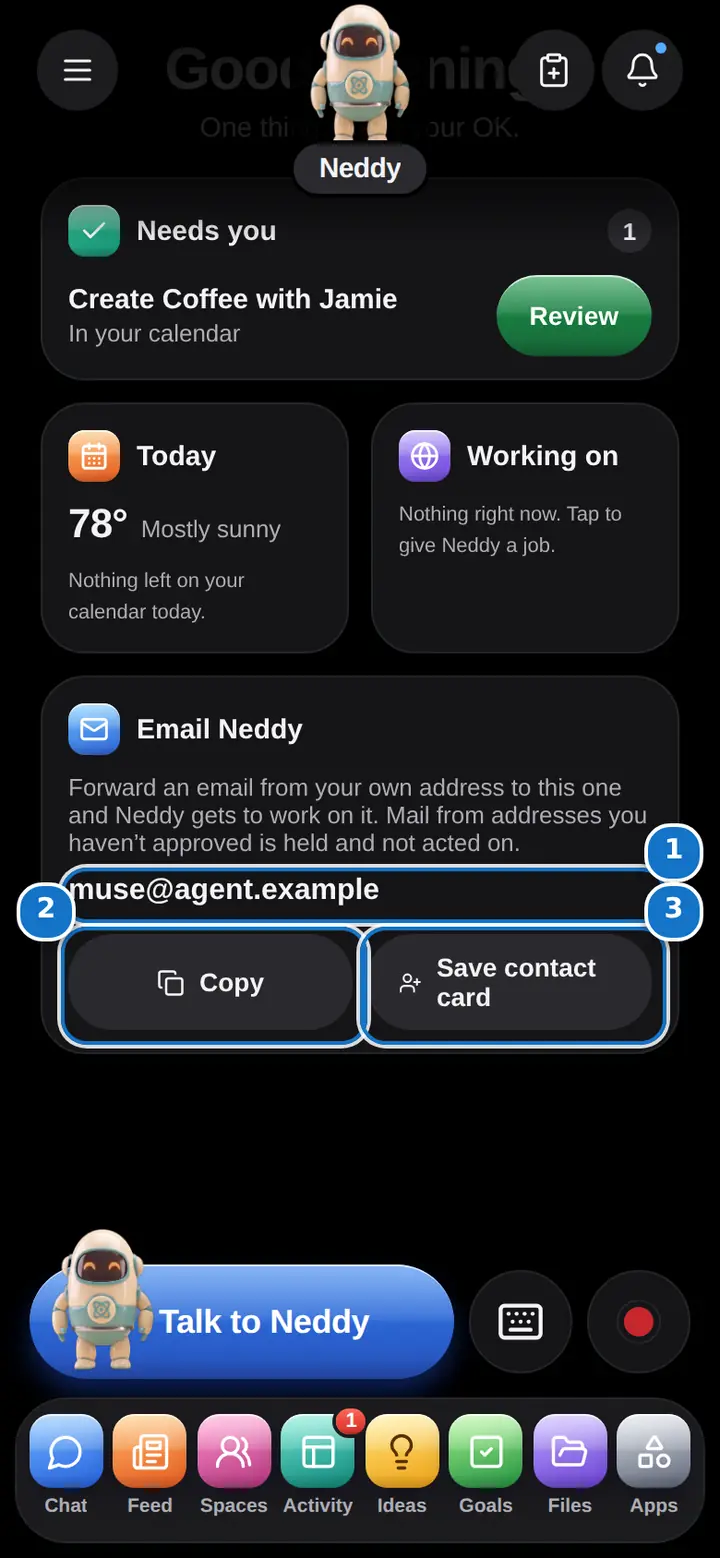
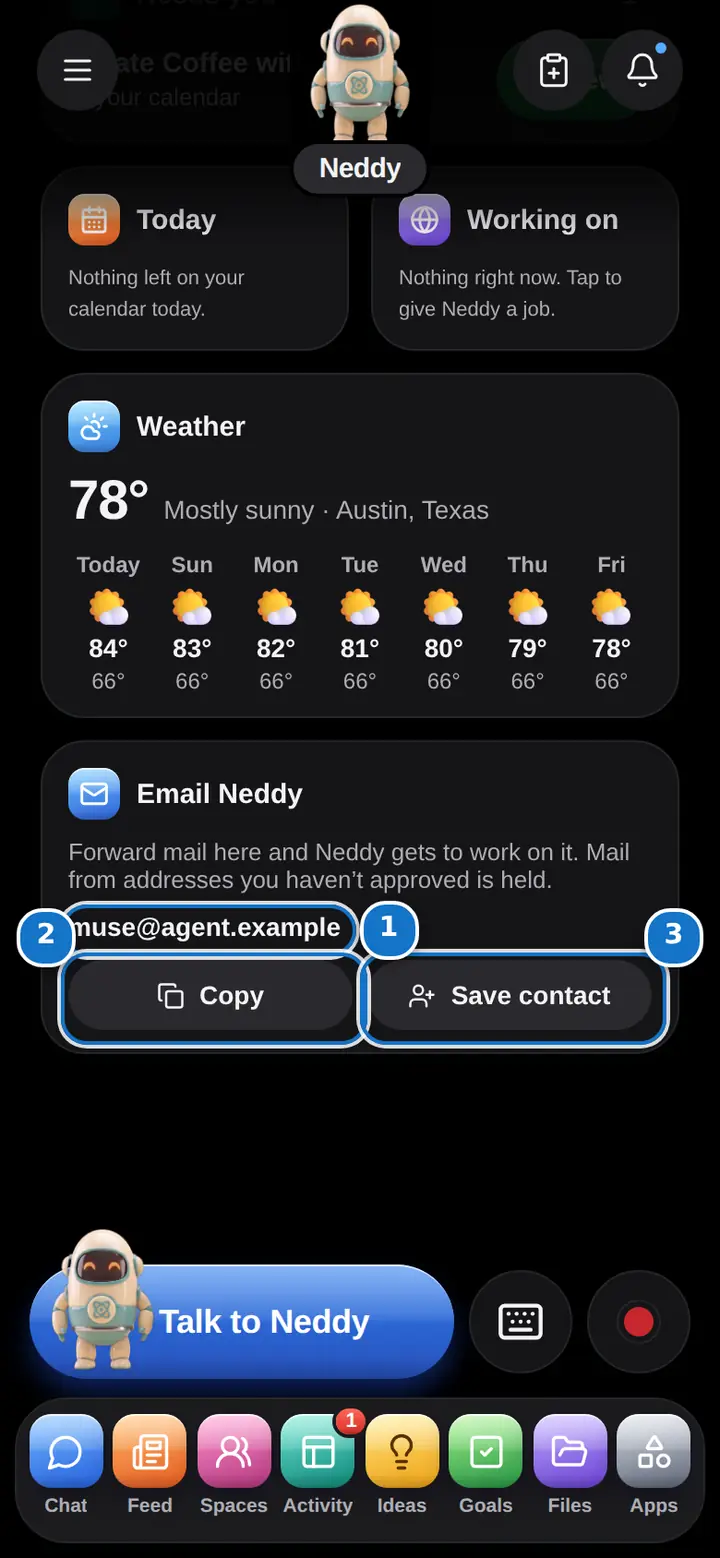
Home: larger Weather card with seven days, smaller Email card
The Weather card is now its own full-width card (now, then each of the next
seven days with high and low); Today shows only the calendar. The Email card is
shorter with small buttons. The forecast is remembered between visits and its
room is held while it loads, so nothing below moves. Help topics and pictures
updated.

Claude-Session: https://claude.ai/code/session_01MfTjvNDS5CdhPPisYxjwAv

diff --git a/apps/mobile/src/home.tsx b/apps/mobile/src/home.tsx
@@ -1,6 +1,7 @@
 import {
   CalendarDays,
   Check,
+  CloudSun,
   Copy,
   Globe,
   Headset,
@@ -13,11 +14,13 @@ import {
 import { type ReactNode, useEffect, useState } from "react";
 import { Image, Platform, Pressable, Text, useWindowDimensions, View } from "react-native";
 import type { ActionProposal } from "../../../packages/domain/src";
+import type { Weather } from "../../../packages/domain/src/weather";
 import { taskActivity } from "./activity";
 import { contactCard, contactFileName } from "./agent-contact";
 import { useAgentWorkspace } from "./agent-workspace";
 import { type AppDay, todaysEvents } from "./calendar-apps";
 import { appLabel } from "./details";
+import { Emoji } from "./emoji";
 import { GlossFill, OnGloss } from "./gloss";
 import { useCallControls } from "./live-call";
 import { useLiveVoice } from "./live-talk-ui";
@@ -25,7 +28,7 @@ import { HomeRecordButton, useRecording } from "./meetings-ui";
 import { dark, glass } from "./theme";
 import { tipProps } from "./tips";
 import { Button, colors, glassSurface, s } from "./ui";
-import { useWeather } from "./weather-ui";
+import { dayName, lastShown, todayIn, useWeather } from "./weather-ui";
 import { isInstalled } from "./web-app";
 import { useWorkspace } from "./workspace";
 
@@ -141,7 +144,6 @@ export function HomeScreen({ desktop }: { desktop: boolean }) {
           ? `Nothing needs you right now. ${agent} is on ${busy.length === 1 ? "a job" : `${count(busy.length).toLowerCase()} jobs`}.`
           : "Nothing needs you right now.";
   const events = todaysEvents([...w.events, ...(appDay?.events ?? [])], now);
-  const forecast = weather && "weather" in weather ? weather.weather.now : undefined;
   const calendarConnected =
     !!appDay?.checked.length ||
     w.connections.some((c) => c.id === "google" && c.status !== "disconnected");
@@ -257,24 +259,13 @@ export function HomeScreen({ desktop }: { desktop: boolean }) {
               tint={["#ffbe6e", "#e8591a"]}
               onPress={() => navigate("feed")}
               // A button's name replaces what's in it, so it carries what the card says.
-              label={`Today: ${forecast ? `${forecast.temp}°, ${forecast.sky}. ` : ""}${shown
+              label={`Today: ${shown
                 .map((e) => `${spoken(e)} ${e.title}`)
                 .join(", ")}${shown.length ? ". " : ""}${more ? `And ${more} more. ` : ""}${
                 dayNote ? `${dayNote} ` : ""
               }Opens your day in Feed`}
               style={{ flex: 1 }}
             >
-              {forecast && (
-                <Text style={{ color: soft(), fontSize: 13 }}>
-                  <Text
-                    style={{ color: ink(), fontSize: 22, fontWeight: "700", letterSpacing: -0.4 }}
-                  >
-                    {forecast.temp}°
-                  </Text>
-                  {"  "}
-                  {forecast.sky}
-                </Text>
-              )}
               {shown.map((e) => (
                 <View key={`${e.id}-${e.start}`} style={{ flexDirection: "row", gap: 10 }}>
                   <Text
@@ -342,10 +333,76 @@ export function HomeScreen({ desktop }: { desktop: boolean }) {
               )}
             </HomeCard>
           </View>
+          {weather && "weather" in weather ? (
+            <WeatherCard weather={weather.weather} onPress={() => navigate("feed")} />
+          ) : (
+            // Holds the card's room while the forecast loads, so the cards below don't jump.
+            !weather && lastShown() && <WeatherRoom />
+          )}
           <AddressCard agent={agent} />
         </View>
       )}
     </View>
+  );
+}
+
+/** The Weather card's space, empty, while the forecast loads. */
+function WeatherRoom() {
+  return (
+    <View aria-hidden>
+      <HomeCard title="Weather" icon={CloudSun} tint={["#7fd4ff", "#2f7be0"]}>
+        <View style={{ height: 121 }} />
+      </HomeCard>
+    </View>
+  );
+}
+
+/** The week at a glance: now, then each day's high and low. Tap for the full forecast in Feed. */
+function WeatherCard({ weather, onPress }: { weather: Weather; onPress: () => void }) {
+  const today = todayIn(weather.timeZone);
+  const days = weather.days.slice(0, 7);
+  // Late in the evening today has no high left: its column shows the low and says "Tonight".
+  const name = (day: Weather["days"][number]) =>
+    day.date === today && day.high === undefined ? "Tonight" : dayName(day.date, today, "short");
+  const spoken = days
+    .map(
+      (day) =>
+        `${name(day)}: ${day.sky.toLowerCase()}${day.high !== undefined ? `, high ${day.high}` : ""}${day.low !== undefined ? `, low ${day.low}` : ""}`,
+    )
+    .join(". ");
+  return (
+    <HomeCard
+      title="Weather"
+      icon={CloudSun}
+      tint={["#7fd4ff", "#2f7be0"]}
+      onPress={onPress}
+      label={`Weather in ${weather.place}: ${weather.now.temp} degrees, ${weather.now.sky.toLowerCase()}. ${spoken}. Opens the forecast in Feed`}
+    >
+      <View style={{ flexDirection: "row", alignItems: "baseline", gap: 8, flexWrap: "wrap" }}>
+        <Text style={{ color: ink(), fontSize: 30, fontWeight: "700", letterSpacing: -0.6 }}>
+          {weather.now.temp}°
+        </Text>
+        <Text style={{ color: soft(), fontSize: 14, flexShrink: 1 }}>
+          {weather.now.sky} · {weather.place}
+        </Text>
+      </View>
+      <View style={{ flexDirection: "row", gap: 2 }}>
+        {days.map((day) => (
+          <View key={day.date} style={{ flex: 1, minWidth: 0, alignItems: "center", gap: 3 }}>
+            <Text style={{ color: soft(), fontSize: 12, fontWeight: "600" }} numberOfLines={1}>
+              {day.date === today && day.high === undefined ? "Night" : name(day)}
+            </Text>
+            <Emoji char={day.emoji} size={24} />
+            <Text style={{ color: ink(), fontSize: 14, fontWeight: "700" }}>
+              {day.high !== undefined ? `${day.high}°` : "–"}
+            </Text>
+            <Text style={{ color: soft(), fontSize: 12 }}>
+              {day.low !== undefined ? `${day.low}°` : " "}
+            </Text>
+          </View>
+        ))}
+      </View>
+    </HomeCard>
   );
 }
 
@@ -414,16 +471,15 @@ function AddressCard({ agent }: { agent: string }) {
           card never changes size. Mounted all the time so a change is read out. */}
       <Text role="status" aria-live="polite" style={{ color: soft(), fontSize: 13 }}>
         {note ||
-          `Forward an email from your own address to this one and ${agent} gets to work on it. Mail from addresses you haven’t approved is held and not acted on.`}
+          `Forward mail here and ${agent} gets to work on it. Mail from addresses you haven’t approved is held.`}
       </Text>
       <Text
         selectable
         style={
           {
             color: ink(),
-            fontSize: 16,
+            fontSize: 14,
             fontWeight: "700",
-            marginBottom: 4,
             wordBreak: "break-all",
           } as object
         }
@@ -433,20 +489,22 @@ function AddressCard({ agent }: { agent: string }) {
       {web && (
         <View style={{ flexDirection: "row", gap: 8, flexWrap: "wrap" }}>
           <Button
+            small
             icon={done === "copied" ? Check : Copy}
             onPress={() => void copy()}
-            style={{ flex: 1, minWidth: 120 }}
+            style={{ flex: 1, minWidth: 100 }}
           >
             Copy
           </Button>
           {/* An installed web app on an iPhone ignores downloads and would lose its page. */}
           {!isInstalled() && (
             <Button
+              small
               icon={done === "saved" ? Check : UserPlus}
               onPress={save}
-              style={{ flex: 1, minWidth: 120 }}
+              style={{ flex: 1, minWidth: 100 }}
             >
-              Save contact card
+              Save contact
             </Button>
           )}
         </View>

diff --git a/packages/domain/src/help.ts b/packages/domain/src/help.ts
@@ -156,11 +156,13 @@ export const HELP_TOPICS: HelpTopic[] = [
     place: "home",
     steps: [
       "**Needs you:** anything waiting for your OK, and jobs with a question for you. Tap **Review** to see the whole thing before you approve it, or **Answer** to reply.",
-      "**Today:** the weather and what’s left on your calendar. Tap it for your day in Feed.",
+      "**Today:** what’s left on your calendar. Tap it for your day in Feed.",
       "**Working on:** the job {agent} is doing now. Tap it to see how it’s going, or, when {agent} is free, to give it a job.",
       "**Talk to {agent}:** tap it and just talk. The keyboard button next to it opens the chat so you can type instead.",
     ],
     body: [
+      "Under them, the **Weather** card shows the temperature now and the next seven days, each with its high and low. Tap it for the full forecast in Feed. It’s shown when you’ve saved a US home city (see **Weather and where you live**).",
+      "If {agent} has an email address set up, a small **Email {agent}** card follows, with Copy and Save contact.",
       "To come back here from anywhere, tap {agent} at the top of the screen, choose **Home** in the ☰ Menu, or say “Take me home”.",
     ],
     say: [{ text: "Take me home.", send: true }],
@@ -1226,7 +1228,7 @@ export const HELP_TOPICS: HelpTopic[] = [
     place: "agent-settings",
     steps: [
       "Your address (1) is on **Home**, in the **Email {agent}** card. It is also under **Apps › Agent › Agent email** and **Apps › Account**.",
-      "Tap **Copy** (2), then paste it into the **To** box of a forward. Or tap **Save contact card** (3) and open the card it downloads (it isn’t shown in the installed app). Most mail apps will then fill in the address when you type {agent}’s name; for Gmail on the web, add the card at contacts.google.com.",
+      "Tap **Copy** (2), then paste it into the **To** box of a forward. Or tap **Save contact** (3) and open the card it downloads (it isn’t shown in the installed app). Most mail apps will then fill in the address when you type {agent}’s name; for Gmail on the web, add the card at contacts.google.com.",
       "Forward or send an email to it. Supported attachments are read too: PDFs, pictures, Word, Excel, PowerPoint, CSV and text files, up to 5 files of 10 MB each. At first only email from the address you signed in with counts, so forward from that account. To add other addresses, go to **Apps › Agent › Agent email**.",
       "Email from anyone else is held: {agent} doesn’t act on it, and you get a notice. After you approve the sender, send it again. (If the notice says it failed the sender check, approving won’t help: send it again from your usual mail app.)",
       "Email can take a minute or two to arrive. To check, ask “Did you get my email?” and {agent} lists what reached its address and how each one went.",

diff --git a/apps/mobile/src/weather-ui.tsx b/apps/mobile/src/weather-ui.tsx
@@ -31,7 +31,7 @@ import { useWorkspace } from "./workspace";
 
 const SHOWN = "openmuse.weather-shown";
 /** Whether this device last had a forecast to show, so a loading line only shows for those who get one. */
-function lastShown() {
+export function lastShown() {
   try {
     return globalThis.localStorage?.getItem(SHOWN) !== "0";
   } catch {
@@ -39,19 +39,29 @@ function lastShown() {
   }
 }
 
+// The last answer per signed-in session, so a screen that opens again paints it at once.
+const lastResult = new WeakMap<object, WeatherResult>();
+
 /** The forecast, fetched when the Feed opens, every 15 minutes, and when the app comes back. */
 export function useWeather() {
   const { api } = useWorkspace();
-  const [result, setResult] = useState<WeatherResult>();
+  const [result, setResult] = useState<WeatherResult | undefined>(() => lastResult.get(api));
   /** `fresh` clears what's showing first, for a new city. */
   const load = useCallback(
     (fresh = false) => {
-      if (fresh) setResult(undefined);
+      if (fresh) {
+        lastResult.delete(api);
+        setResult(undefined);
+      }
       return api.request<WeatherResult>("/api/weather").then(
         (next) => {
           // A blip at the Weather Service doesn't take away a forecast that's already showing.
           const blip = "unavailable" in next && next.unavailable === "unreachable";
-          setResult((current) => (current && "weather" in current && blip ? current : next));
+          setResult((current) => {
+            const shown = current && "weather" in current && blip ? current : next;
+            lastResult.set(api, shown);
+            return shown;
+          });
           if (!blip)
             try {
               globalThis.localStorage?.setItem(SHOWN, "weather" in next ? "1" : "0");
@@ -100,7 +110,7 @@ const hourOf = (time: string) => {
   return `${hour % 12 || 12} ${hour < 12 ? "AM" : "PM"}`;
 };
 /** The city's date today. */
-const todayIn = (timeZone: string) => {
+export const todayIn = (timeZone: string) => {
   try {
     return new Date().toLocaleDateString("en-CA", { timeZone });
   } catch {
@@ -119,7 +129,7 @@ const timeIn = (value: string | Date, timeZone: string) => {
     return new Date(value).toLocaleTimeString(undefined, { hour: "numeric", minute: "2-digit" });
   }
 };
-const dayName = (date: string, today: string, style: "short" | "long") =>
+export const dayName = (date: string, today: string, style: "short" | "long") =>
   date === today
     ? "Today"
     : new Date(`${date}T12:00:00Z`).toLocaleDateString(undefined, {
